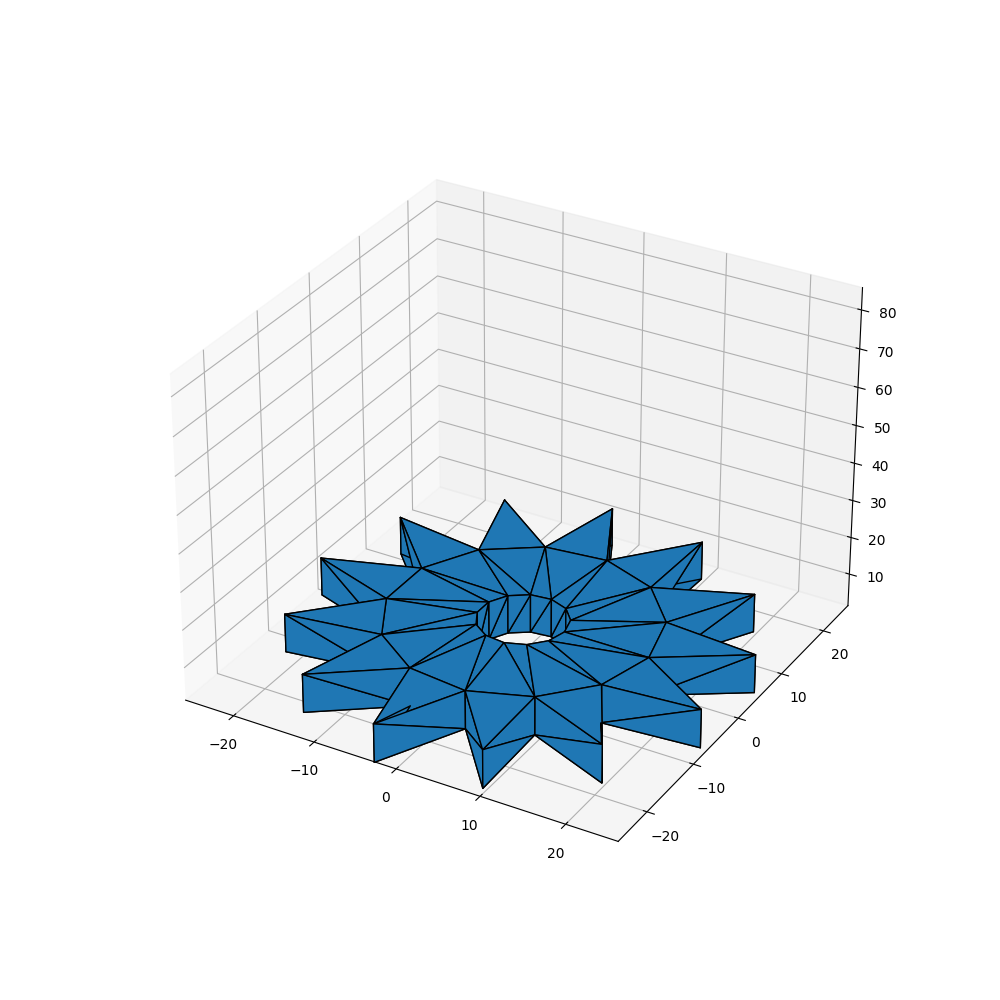
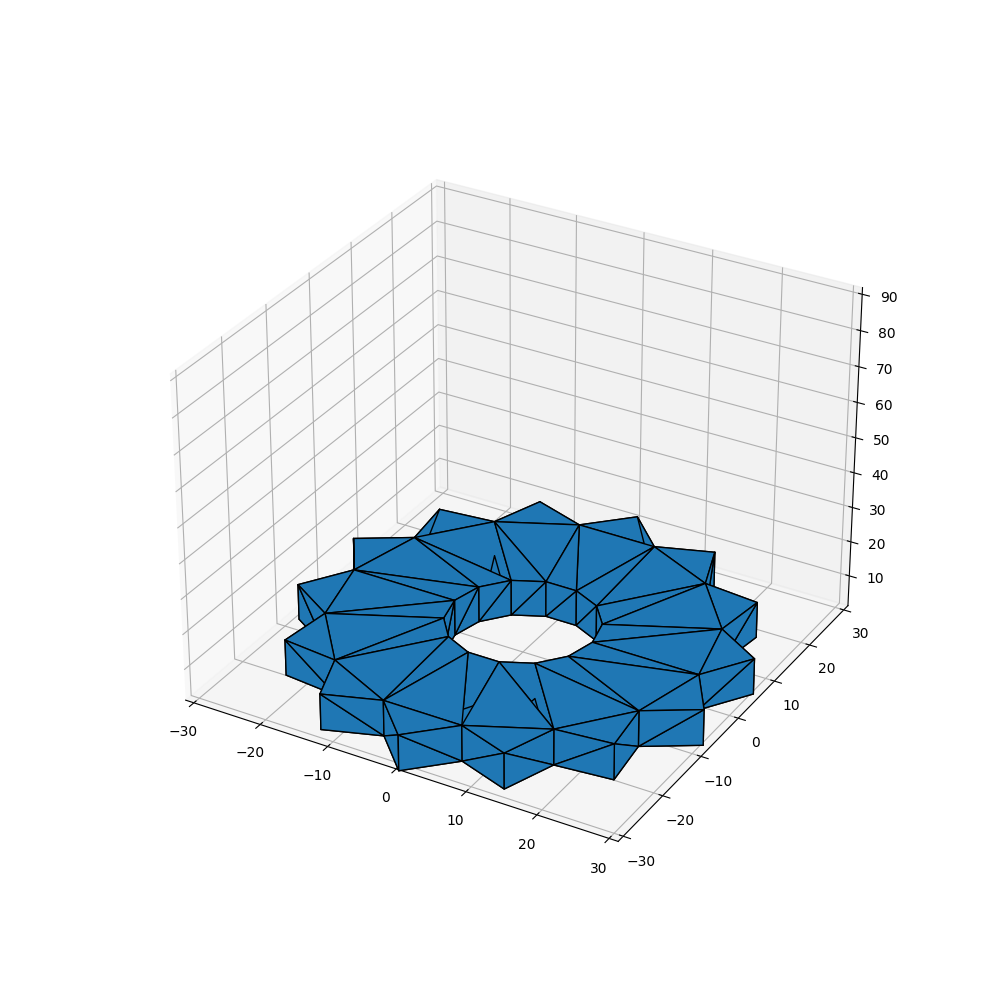
added picture for user interface

diff --git a/source/perhenrik.py b/source/perhenrik.py
@@ -11,8 +11,11 @@ Per Henrik Hardeberg
 
 import pointgenerator
 import meshgenerator
+import matplotlib.pyplot as plt
+import numpy as np
 
-spesificationList = [15, 60, 5, 10, 25, 210, 8.3540, 58.2250]
+
+spesificationList = [20, 60, 5, 10, 15, 210, 8.3540, 58.2250]
 pg = pointgenerator.PointGenerator()
 mg = meshgenerator.MeshGenerator()
 pg.inputList(spesificationList)
@@ -35,4 +38,17 @@ pointsOuterOffset =  pg.getPointsOuterOffset()
 mg.inputAndRun(pointsInner, pointsMain, pointsOuter, pointsInnerOffset, pointsMainOffset, pointsOuterOffset, spesificationList[1])
 mg.faceGenerator()
 mg.plotMesh()
+
+
+
+
+ax = plt.axes(projection='3d')
+plt.plot(pointsInner[:, 0],pointsInner[:,1],pointsInner[:,2], '*')
+plt.plot(pointsMain[:,0], pointsMain[:,1], pointsMain[:,2], '*')
+plt.plot(pointsOuter[:,0], pointsOuter[:,1], pointsOuter[:,2], '*')
+
+plt.plot(pointsInnerOffset[:, 0],pointsInnerOffset[:,1],pointsInnerOffset[:,2], '*')
+plt.plot(pointsMainOffset[:, 0], pointsMainOffset[:,1], pointsMainOffset[:,2], '*')
+plt.plot(pointsOuterOffset[:, 0], pointsOuterOffset[:,1], pointsOuterOffset[:,2], '*')
+plt.show()
 

diff --git a/source/pointgenerator.py b/source/pointgenerator.py
@@ -3,6 +3,9 @@ Gear Generator MAS417 Project
 Flexible Production
 Per Henrik Hardeberg
 27.10.2022
+
+source: https://gis.stackexchange.com/questions/411113/generate-a-circle-of-coordinates-around-a-point-but-im-getting-an-oval
+is used to get inspiration on how to make the circle patterned points.
 '''
 
 import numpy as np
